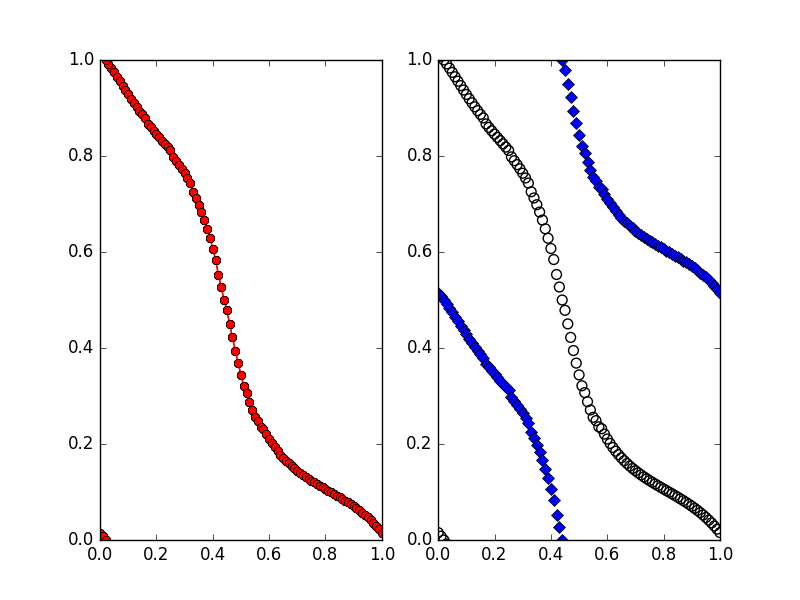
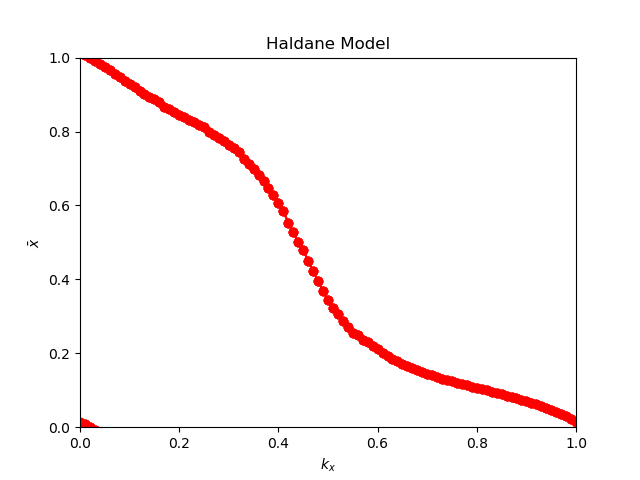
Update Figures drawn by Z2Pack

diff --git a/Z2Pack/QAH.py b/Z2Pack/QAH.py
@@ -38,7 +38,7 @@ s0 = z2pack.hm.System(h0, dim=2, bands=1)
 result = z2pack.surface.run(
     system=s0,
     # parameter of surface is moduled by 2pi
-    surface=lambda k1, k2: [k2-0.5, k1-0.5],
+    surface=lambda k1, k2: [k1-0.5, k2-0.5],
     # surface=lambda k1, k2: [k2, k1/2],
     **settings
     # save_file="savefile.msgpack"
@@ -47,11 +47,10 @@ result = z2pack.surface.run(
 print("Chern=", z2pack.invariant.chern(result))
 # print("Z2=", z2pack.invariant.z2(result))
 
-fig, ax = plt.subplots(1, 2)
-z2pack.plot.chern(result, axis=ax[0])
-z2pack.plot.wcc(result, axis=ax[1])
-# ax[0].set_xlim(-1, 2)
-# ax[0].set_ylim(-1, 2)
-# ax[1].set_xlim(-1, 2)
-# ax[1].set_ylim(-1, 2)
+fig, ax = plt.subplots()
+z2pack.plot.chern(result, axis=ax)
+# z2pack.plot.wcc(res, axis=ax[1])
+ax.set_xlabel(r"$k_x$")
+ax.set_ylabel(r"$\bar{x}$")
+ax.set_title("QAH("+r"$\bf{k}\cdot\bf{p}$"+" model)")
 plt.savefig("QAH.png")

diff --git a/Z2Pack/HaldaneModel.py b/Z2Pack/HaldaneModel.py
@@ -38,9 +38,12 @@ def get_chern(m, t1, t2, phi, **settings):
     sys = z2pack.hm.System(h, bands=1)
     res = z2pack.surface.run(system=sys, surface=lambda k1, k2: [
                              k1, k2, 0], **settings)
-    fig, ax = plt.subplots(1, 2)
-    z2pack.plot.chern(res, axis=ax[0])
-    z2pack.plot.wcc(res, axis=ax[1])
+    fig, ax = plt.subplots()
+    z2pack.plot.chern(res, axis=ax)
+    # z2pack.plot.wcc(res, axis=ax[1])
+    ax.set_xlabel(r"$k_x$")
+    ax.set_ylabel(r"$\bar{x}$")
+    ax.set_title("Haldane Model")
     plt.savefig("HaldaneModel.png")
     # print("Z2 = ", z2pack.invariant.z2(res))
     return z2pack.invariant.chern(res)

diff --git a/Z2Pack/BHZ_Hamiltonian.py b/Z2Pack/BHZ_Hamiltonian.py
@@ -69,7 +69,10 @@ print("Z2=", z2pack.invariant.z2(result))
 fig, ax = plt.subplots()
 # z2pack.plot.chern(result, axis=ax[0])
 z2pack.plot.wcc(result, axis=ax)
-# ax.set_xlim(0.8, 1.01)
+ax.set_xlabel(r"$k_x$")
+ax.set_ylabel(r"$\bar{x}$")
+ax.set_title("QSH (BHZ Hamiltonian)")
+ax.set_xlim(0.9, 1.0)
 # ax.set_xlim(-0.01, 0.2)
 # ax[0].set_xlim(-1, 2)
 # ax[0].set_ylim(-1, 2)
